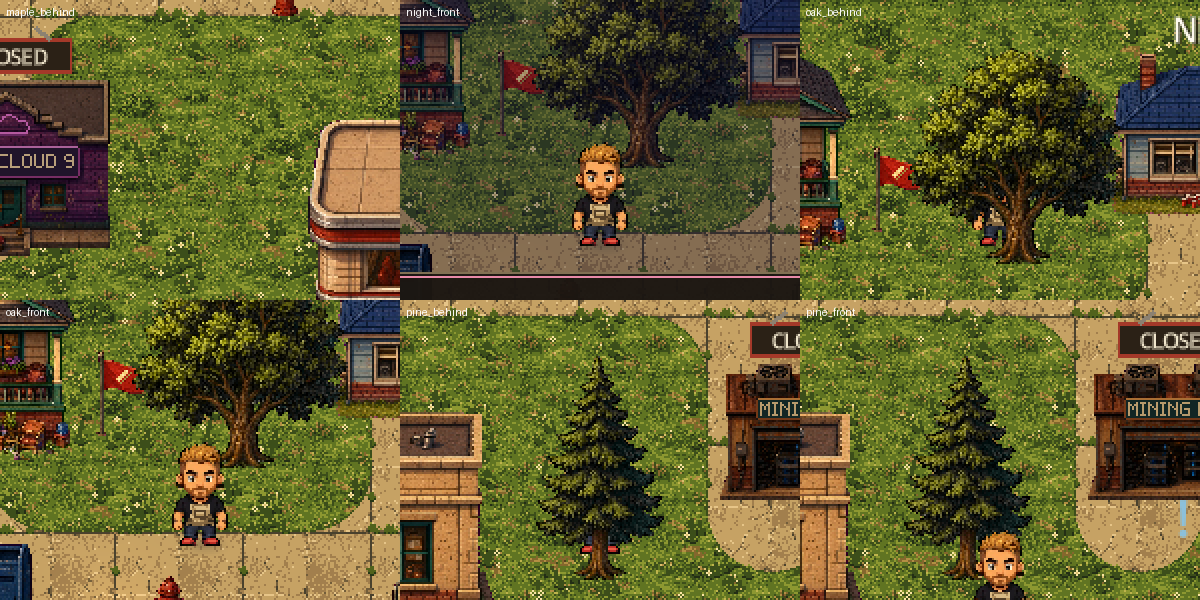
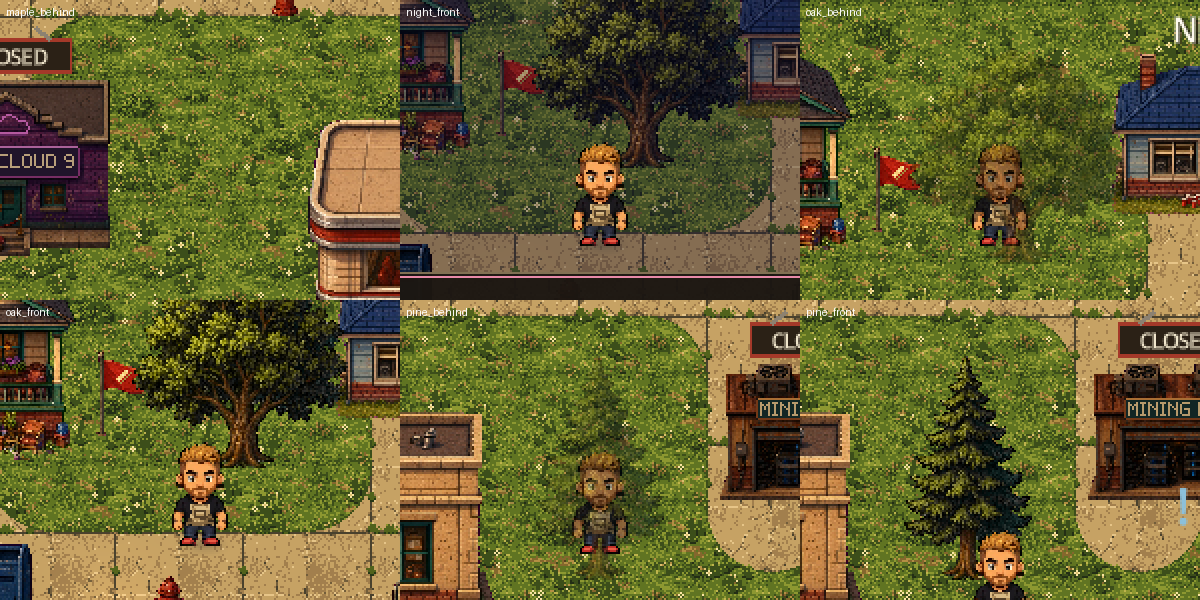
Street dressing review fixes + see-through trees, handoff
- Duff fades the canopy in front of him (45%) instead of vanishing behind trees
- bench at the bus sign, cones on the road, bin at the curb, props at Fork/Kwik/Walgrumps, stray picket gone
- CLAUDE.md / QUEUE / todo / lessons updated; next = M3 (boss art, blocked) or M4 combat feel

Claude-Session: https://claude.ai/code/session_01V3sbxKfbU3qji6qHR4t25Q

Changed region(s): [[0.74, 0.09, 0.9558, 0.45], [0.4317, 0.6, 0.555, 0.99], [0.9867, 0.81, 1.0, 0.84]]

diff --git a/CLAUDE.md b/CLAUDE.md
@@ -5,8 +5,8 @@ work the line at the Twisted Fork, fight exes and porch pirates. Godot 4.5, GDSc
 landscape (HD chibi pixel art since Nov 7; was 480×270). Owner: Duff. Read this first; it is the handoff between sessions.
 
 ## Where things stand
-- **Next milestone: see `QUEUE.md` NOW** (Nov 8: M2 street dressing: trees/clutter/fences from
-  `grok_art/2026-11-08-street-dressing/`, Cursor PR #7, onto the town).
+- **Next milestone: see `QUEUE.md` NOW** (Nov 8: M3 boss art is blocked until Grok's boss drop
+  lands in `grok_art/`; if it isn't there, do M4 combat feel instead).
 - **Source recovered Nov 7, 2026.** The game was built elsewhere (Grok) and only builds survived
   (Windows zips v0.2–v0.10.1 in Duff's Drive; web build at
   https://lighthearted-custard-a79ec2.netlify.app). This repo was rebuilt from that web build's
@@ -167,6 +167,20 @@ landscape (HD chibi pixel art since Nov 7; was 480×270). Owner: Duff. Read this
   dark outfits melt into asphalt; speckled dark outline around the hair is in Grok's source, not the keying.
 - **Repo rules docs (Nov 8):** `docs/PITCH.md` (pillars, not-in-game, kill criteria), `QUEUE.md`
   (work only on NOW), `tasks/todo.md`, `tasks/lessons.md`. Read QUEUE first.
+
+- **Done (Nov 8): street dressing (M2).** Cursor PR #7's drop (`grok_art/2026-11-08-street-dressing/`)
+  -> `tools/import_dressing.py` -> `assets/art/sd_*.png` (trees/props native; fences scaled 0.375, one
+  segment = 39 world units). Placements: `data/town_dressing.json` (hand-edit; `p` = ground point,
+  `s` scale, `wall` size, `tree`). `scripts/dressing.gd` loads/draws; `main._draw_outside` y-sorts
+  storefronts + dressing behind Duff; `scripts/dressing_front.gd` (z 1 child of main) draws what's in
+  front of him and fades it to 45% where it covers him. `trees` is now derived from the data.
+  `map_objects.png` only holds the old bus-stop sign now. After editing the data run
+  `godot --headless --path . --script tools/dressing_check.gd` (walls vs doors/NPC/bus/Ensure spots).
+  Renders: `docs/renders/street_dressing_before_after.png`, `_full.png`, `_depth.png`
+  (`tools/dressing_shot.tscn` + `tools/dressing_sheet.py`).
+  Review leftovers (logged in tasks/todo.md): NPCs/enemies/cats behind a tree aren't faded (only Duff);
+  old flat art next to the new (Waffle Haus pole sign, bus-stop sign, cats); right-side lawns still big
+  and empty; political_sun_sign unused on purpose.
 
 ## Next (Duff's asks)
 - When Grok art lands in the Drive inbox: pull it (subagent; Drive returns big base64), clean

diff --git a/tasks/todo.md b/tasks/todo.md
@@ -5,8 +5,15 @@
 - [x] Redraw `duff_shades.png` for the new head (`tools/make_shades.py`); old overlay sat on the hair
 - [x] In-engine check: `tools/outfit_shot.tscn` + `tools/outfit_sheet.py` -> `docs/renders/duff_outfits_ingame.png`
 
-## M2: street dressing
-- [ ] Trees, clutter, fences from `grok_art/2026-11-08-street-dressing/` onto the town
+## M2: street dressing (Nov 8) — done
+- [x] Import trees/clutter/fences (`tools/import_dressing.py`), place via `data/town_dressing.json`
+- [x] Depth sort + see-through canopy for Duff; `tools/dressing_check.gd` for blocked spots
+- [x] Review fixes: bench by the bus sign, cones on the road, bin at the curb, props at Fork/Kwik/Walgrumps, stray picket removed
+
+## Leftovers from the M2 review
+- [ ] Fade trees for NPCs/enemies/cats behind them too (only Duff now)
+- [ ] Grok redraws: Waffle Haus pole sign, bus-stop sign, cats (old flat art)
+- [ ] Right-hand lawns still big and empty; more props / a second yard once art allows
 
 ## Art follow-ups from the M1 review (Grok redraws, not code)
 - [ ] Step frames (cols 1-2): clean legs on side rows, add a 1 px head bob

diff --git a/tasks/lessons.md b/tasks/lessons.md
@@ -1,3 +1,5 @@
 # Lessons
 - (Nov 8) Overlays drawn on top of a character sheet (shades) are tied to that sheet's head position. When a sheet is replaced, re-check every overlay in-engine.
 - (Nov 8) `main.gd` copies its own `shades` onto the player every frame; test tools must set `m.shades`, not just `player.shades`.
+- (Nov 8) Grok's fence sheet was drawn ~2.5x too big for the world (75 units tall vs Duff's 26). Check every new drop's scale against Duff before placing.
+- (Nov 8) Run tools/dressing_check.gd after moving props: first layout put a hydrant on Brittany, a bench on the Ensure and a wall on a raccoon spot.
